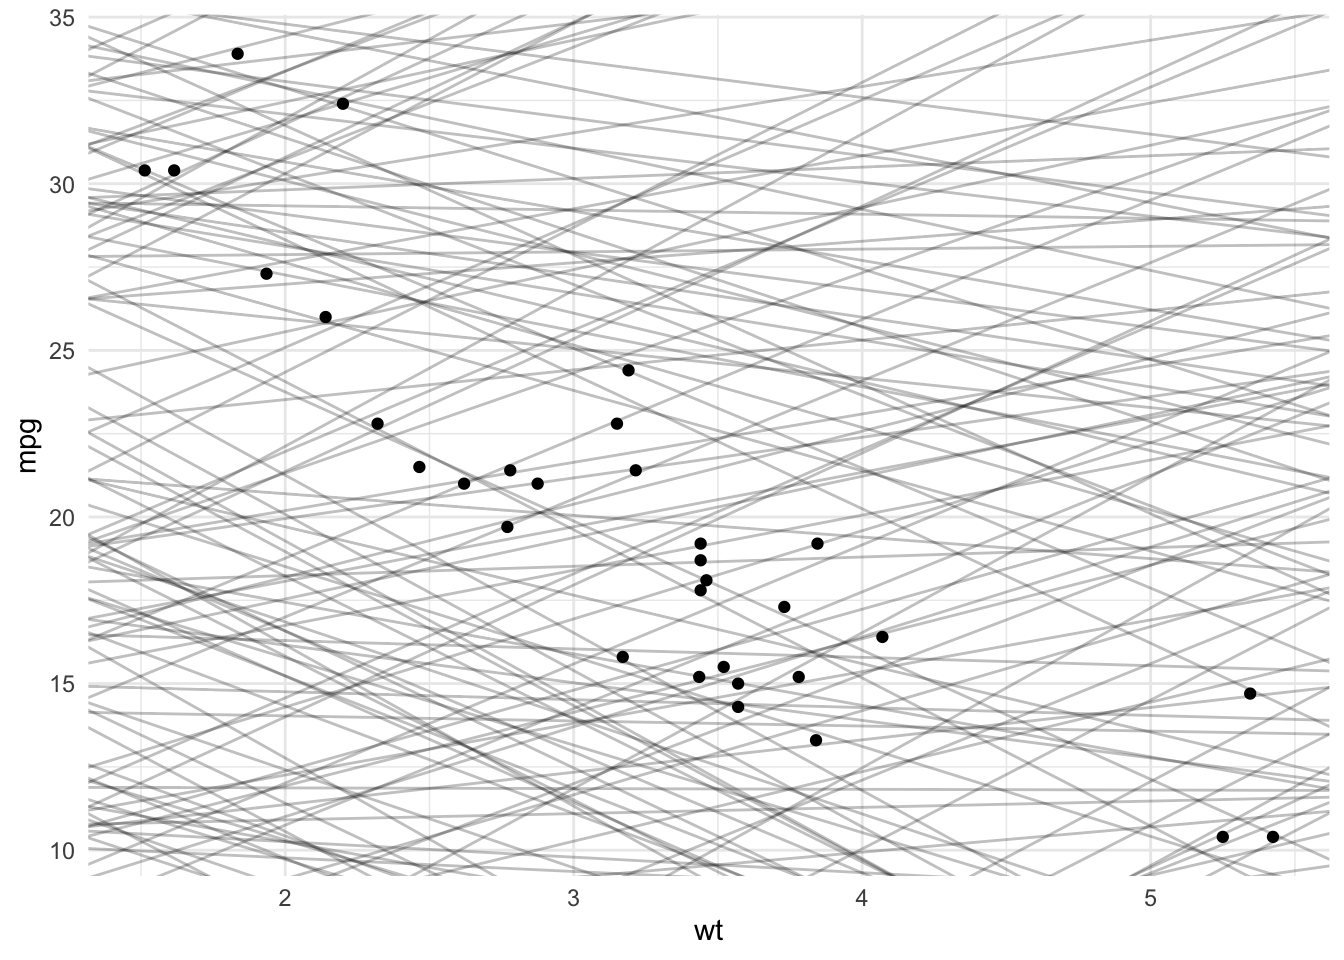
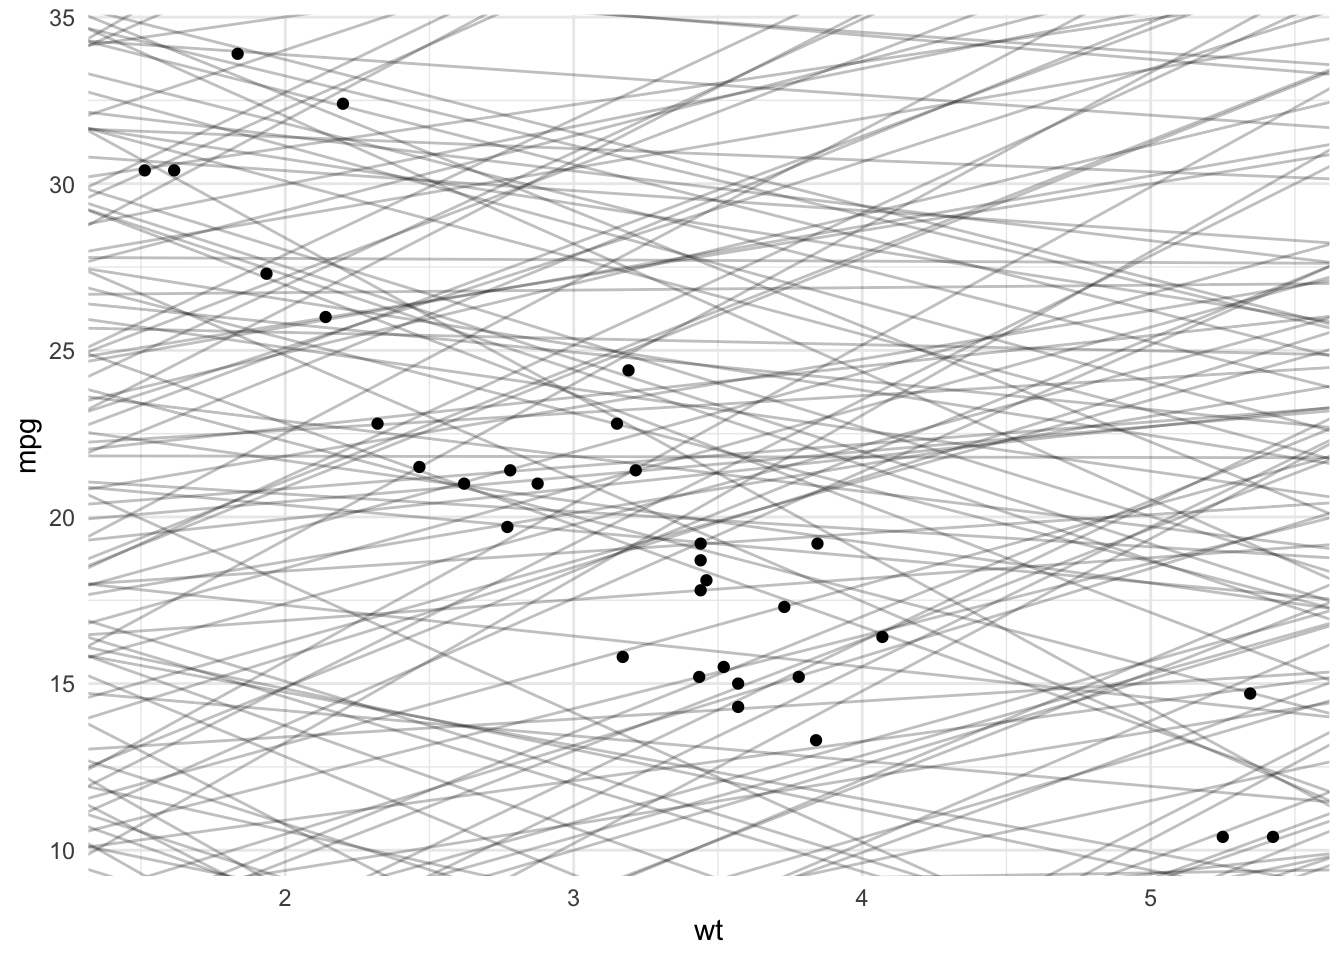
Updated book welcome page

diff --git a/docs/09_02_dates.html b/docs/09_02_dates.html
@@ -527,14 +527,14 @@ pre > code.sourceCode > span > a:first-child::before { text-decoration: underlin
 <div class="cell">
 <div class="sourceCode cell-code" id="cb2"><pre class="sourceCode r code-with-copy"><code class="sourceCode r"><span id="cb2-1"><a href="#cb2-1" aria-hidden="true" tabindex="-1"></a><span class="fu">today</span>()</span></code><button title="Copy to Clipboard" class="code-copy-button"><i class="bi"></i></button></pre></div>
 <div class="cell-output cell-output-stdout">
-<pre><code>[1] "2026-08-30"</code></pre>
+<pre><code>[1] "2026-09-05"</code></pre>
 </div>
 </div>
 <p>Or current date time…</p>
 <div class="cell">
 <div class="sourceCode cell-code" id="cb4"><pre class="sourceCode r code-with-copy"><code class="sourceCode r"><span id="cb4-1"><a href="#cb4-1" aria-hidden="true" tabindex="-1"></a><span class="fu">now</span>()</span></code><button title="Copy to Clipboard" class="code-copy-button"><i class="bi"></i></button></pre></div>
 <div class="cell-output cell-output-stdout">
-<pre><code>[1] "2026-08-30 14:25:07 CEST"</code></pre>
+<pre><code>[1] "2026-09-05 17:46:32 CEST"</code></pre>
 </div>
 </div>
 <section id="parsing-dates" class="level2">
@@ -619,11 +619,11 @@ pre > code.sourceCode > span > a:first-child::before { text-decoration: underlin
 <div class="cell">
 <div class="sourceCode cell-code" id="cb22"><pre class="sourceCode r code-with-copy"><code class="sourceCode r"><span id="cb22-1"><a href="#cb22-1" aria-hidden="true" tabindex="-1"></a><span class="fu">as_datetime</span>(<span class="fu">today</span>())</span></code><button title="Copy to Clipboard" class="code-copy-button"><i class="bi"></i></button></pre></div>
 <div class="cell-output cell-output-stdout">
-<pre><code>[1] "2026-08-30 UTC"</code></pre>
+<pre><code>[1] "2026-09-05 UTC"</code></pre>
 </div>
 <div class="sourceCode cell-code" id="cb24"><pre class="sourceCode r code-with-copy"><code class="sourceCode r"><span id="cb24-1"><a href="#cb24-1" aria-hidden="true" tabindex="-1"></a><span class="fu">as_date</span>(<span class="fu">now</span>())</span></code><button title="Copy to Clipboard" class="code-copy-button"><i class="bi"></i></button></pre></div>
 <div class="cell-output cell-output-stdout">
-<pre><code>[1] "2026-08-30"</code></pre>
+<pre><code>[1] "2026-09-05"</code></pre>
 </div>
 </div>
 </section>
@@ -725,7 +725,7 @@ pre > code.sourceCode > span > a:first-child::before { text-decoration: underlin
 <div class="sourceCode cell-code" id="cb54"><pre class="sourceCode r code-with-copy"><code class="sourceCode r"><span id="cb54-1"><a href="#cb54-1" aria-hidden="true" tabindex="-1"></a>my_age <span class="ot">&lt;-</span> <span class="fu">today</span>() <span class="sc">-</span> <span class="fu">ymd</span>(<span class="st">"1998 Mar 4"</span>)</span>
 <span id="cb54-2"><a href="#cb54-2" aria-hidden="true" tabindex="-1"></a>my_age</span></code><button title="Copy to Clipboard" class="code-copy-button"><i class="bi"></i></button></pre></div>
 <div class="cell-output cell-output-stdout">
-<pre><code>Time difference of 10406 days</code></pre>
+<pre><code>Time difference of 10412 days</code></pre>
 </div>
 <div class="sourceCode cell-code" id="cb56"><pre class="sourceCode r code-with-copy"><code class="sourceCode r"><span id="cb56-1"><a href="#cb56-1" aria-hidden="true" tabindex="-1"></a><span class="fu">class</span>(my_age)</span></code><button title="Copy to Clipboard" class="code-copy-button"><i class="bi"></i></button></pre></div>
 <div class="cell-output cell-output-stdout">
@@ -737,7 +737,7 @@ pre > code.sourceCode > span > a:first-child::before { text-decoration: underlin
 <div class="cell">
 <div class="sourceCode cell-code" id="cb58"><pre class="sourceCode r code-with-copy"><code class="sourceCode r"><span id="cb58-1"><a href="#cb58-1" aria-hidden="true" tabindex="-1"></a><span class="fu">as.duration</span>(my_age)</span></code><button title="Copy to Clipboard" class="code-copy-button"><i class="bi"></i></button></pre></div>
 <div class="cell-output cell-output-stdout">
-<pre><code>[1] "899078400s (~28.49 years)"</code></pre>
+<pre><code>[1] "899596800s (~28.51 years)"</code></pre>
 </div>
 </div>
 <p>Other useful functions… in seconds</p>

diff --git a/docs/index.html b/docs/index.html
@@ -474,18 +474,53 @@ ul.task-list li input[type="checkbox"] {
 <p>This is the book website for the <strong>Data Analysis &amp; Information Extraction</strong> course at <strong>CUNEF Universidad</strong>.</p>
 <p>The book covers all course contents and provides full explanation of the different topics. You will find explanations and examples to guide your learning.</p>
 <p>The book is structured following the course schedule. Now we explain the content of each chapter with references to each of the main units the course is structured.</p>
-<ol type="1">
-<li><p><strong>Introduction to Programming</strong> chapter covers the configuration and introduces R and RStudio software we will use for developing with R during the course. It introduces the different parts of the software and how to use it. (Unit 1)</p></li>
-<li><p><strong>Programming with R</strong> focuses on explaining all basic concepts of the R language, teaching the different data types, main functions and programming structures. To provide the student with the basic knowledge needed for following the next chapters. (Unit 1)</p></li>
-<li><p><strong>Visualization</strong> will teach you the different tools available on R for creating plots and use them accordingly for showing the insights of the data. (Unit 2)</p></li>
-<li><p><strong>Manipulation</strong> chapter will review the different available elements to manipulate the data and transform the information to analyze what we need. (Unit 2)</p></li>
-<li><p><strong>Exploratory Data Analysis</strong> will summarise all we have seen until this point and provide you a template guide on how to explore data and find useful insights. (Unit 2)</p></li>
-<li><p><strong>Reading</strong></p></li>
-<li><p><strong>Arrange</strong></p></li>
-<li><p><strong>Transformation</strong></p></li>
-<li><p><strong>Modelling</strong></p></li>
-<li><p><strong>Communication</strong></p></li>
-</ol>
+<table class="caption-top table">
+<colgroup>
+<col style="width: 18%">
+<col style="width: 16%">
+<col style="width: 64%">
+</colgroup>
+<thead>
+<tr class="header">
+<th>Unit</th>
+<th>Chapters</th>
+<th>Summary</th>
+</tr>
+</thead>
+<tbody>
+<tr class="odd">
+<td><strong>Unit 1</strong>: Programming with R</td>
+<td><p>01 - Introduction to Programming</p>
+<p>02 - Programming with R</p></td>
+<td><p>Configuration and introduction R and RStudio software that we will use for developing with R during the course.</p>
+<p>Explaining all basic concepts of the R language, teaching the different data types, main functions and programming structures.</p></td>
+</tr>
+<tr class="even">
+<td><strong>Unit 2</strong>: Exploratory Data Analysis</td>
+<td><p>03 - Tidyverse</p>
+<p>04 - Visualization</p>
+<p>05 - Transform Data</p>
+<p>06 - Exploratory Data Analysis</p></td>
+<td><p>Introduction to the Tidyverse package for data analysis.</p>
+<p>Explaining the main tools for creating plots and rules to decide how to represent data.</p>
+<p>Basic transformation tools for manipulate data and work with it.</p>
+<p>Know the steps for properly analyze data and understand the information.</p></td>
+</tr>
+<tr class="odd">
+<td><strong>Unit 3</strong>: Data Wrangling</td>
+<td><p>07 - Reading Data</p>
+<p>08 - Arrange Data</p>
+<p>09 - Clean Data</p></td>
+<td><p>Know the main tools for importing data in R.</p>
+<p>Understand how to perform advance transformation to clean and use the data properly for the different analysis needs.</p></td>
+</tr>
+<tr class="even">
+<td><strong>Unit 4</strong>: Modelling</td>
+<td>10 - Modelling</td>
+<td>Understand the basic concepts of data modelling to make predictions. Focus on Linear Regression models. Now how to obtain estimations.</td>
+</tr>
+</tbody>
+</table>
 
 
 </section>

diff --git a/docs/07_05_others.html b/docs/07_05_others.html
@@ -646,22 +646,22 @@ Body: In memory (126715 bytes)</code></pre>
 <div class="sourceCode cell-code" id="cb11"><pre class="sourceCode r code-with-copy"><code class="sourceCode r"><span id="cb11-1"><a href="#cb11-1" aria-hidden="true" tabindex="-1"></a><span class="fu">resp_headers</span>(resp)</span></code><button title="Copy to Clipboard" class="code-copy-button"><i class="bi"></i></button></pre></div>
 <div class="cell-output cell-output-stdout">
 <pre><code>&lt;httr2_headers&gt;
-Date: Sun, 30 Aug 2026 12:24:58 GMT
+Date: Sat, 05 Sep 2026 15:46:23 GMT
 Server: Apache
-Last-Modified: Sun, 30 Aug 2026 07:49:22 GMT
+Last-Modified: Sat, 05 Sep 2026 15:44:38 GMT
 X-OneAgent-JS-Injection: true
-Server-Timing: dtRpid;desc="-1893362553"
+Server-Timing: dtRpid;desc="-310422654"
 Access-Control-Allow-Origin: *
 Access-Control-Allow-Headers: Content-Type
 X-Frame-options: DENY
 Cache-Control: public
 Expires: Thu, 1 Jan 1970 00:00:00 GMT
-ETag: "1788076163:dtagent103432607151238112TlV"
+ETag: "1788623079:dtagent103432607151238112TlV"
 Content-Language: es
-Age: 16538
+Age: 107
 Content-Length: 126715
 Content-Type: application/json;charset=UTF-8
-Set-Cookie: dtCookiec132n50s=v_4_srv_7_sn_F3E7175B52E0E84810F767DEA3503753_perc_100000_ol_0_mul_1_app-3A50b3efb0f7e34fcb_0; Path=/; Domain=.ine.es
+Set-Cookie: dtCookiec132n50s=v_4_srv_8_sn_0AA6A7D92B5A6225D6955D0095AEDEC1_perc_100000_ol_0_mul_1_app-3A50b3efb0f7e34fcb_0; Path=/; Domain=.ine.es
 Set-Cookie: INE_WEB_COOKIE=es;Max-Age=31536000;Path=/
 Set-Cookie: BIGipServerwstempus.ine.es_pool=2528197386.20480.0000; path=/; Httponly; Secure
 Pragma: public</code></pre>

diff --git a/docs/02_02_objects.html b/docs/02_02_objects.html
@@ -1000,7 +1000,7 @@ Warning messages
  [1]  1  2  3  4  5  6  7  8  9 10
 
 [[3]]
-[1] "2026-08-30 14:24:20 CEST"</code></pre>
+[1] "2026-09-05 17:45:45 CEST"</code></pre>
 </div>
 </div>
 <p>In contrast with vectors, lists are considered a data type (object):</p>
@@ -1056,7 +1056,7 @@ $numbers
  [1]  1  2  3  4  5  6  7  8  9 10
 
 $time
-[1] "2026-08-30 14:24:20 CEST"</code></pre>
+[1] "2026-09-05 17:45:45 CEST"</code></pre>
 </div>
 </div>
 <p>These names can be used for accessing each element too:</p>
@@ -1158,7 +1158,7 @@ $time
 <div class="sourceCode cell-code" id="cb108"><pre class="sourceCode r code-with-copy"><code class="sourceCode r"><span id="cb108-1"><a href="#cb108-1" aria-hidden="true" tabindex="-1"></a>hour <span class="ot">&lt;-</span> <span class="fu">Sys.time</span>()</span>
 <span id="cb108-2"><a href="#cb108-2" aria-hidden="true" tabindex="-1"></a>hour</span></code><button title="Copy to Clipboard" class="code-copy-button"><i class="bi"></i></button></pre></div>
 <div class="cell-output cell-output-stdout">
-<pre><code>[1] "2026-08-30 14:24:20 CEST"</code></pre>
+<pre><code>[1] "2026-09-05 17:45:45 CEST"</code></pre>
 </div>
 <div class="sourceCode cell-code" id="cb110"><pre class="sourceCode r code-with-copy"><code class="sourceCode r"><span id="cb110-1"><a href="#cb110-1" aria-hidden="true" tabindex="-1"></a><span class="fu">typeof</span>(hour)</span></code><button title="Copy to Clipboard" class="code-copy-button"><i class="bi"></i></button></pre></div>
 <div class="cell-output cell-output-stdout">

diff --git a/docs/07_03_parsing.html b/docs/07_03_parsing.html
@@ -702,7 +702,7 @@ row col           expected     actual
 <div>
 
 </div>
-<div class="quarto-layout-panel" data-layout-ncol="3" style="font-size:20px;">
+<div class="quarto-layout-panel" style="font-size:20px;" data-layout-ncol="3">
 <div class="quarto-layout-row">
 <section id="year" class="level4 quarto-layout-cell" style="flex-basis: 33.3%;justify-content: flex-start;">
 <h4 class="anchored" data-anchor-id="year">Year</h4>
@@ -739,7 +739,7 @@ row col           expected     actual
 <div>
 
 </div>
-<div class="quarto-layout-panel" data-layout-ncol="2" style="font-size:20px;">
+<div class="quarto-layout-panel" style="font-size:20px;" data-layout-ncol="2">
 <div class="quarto-layout-row">
 <section id="time" class="level4 quarto-layout-cell" style="flex-basis: 50.0%;justify-content: flex-start;">
 <h4 class="anchored" data-anchor-id="time">Time</h4>

diff --git a/docs/02_01_first_concepts.html b/docs/02_01_first_concepts.html
@@ -617,7 +617,7 @@ Naming Variables
 <div class="sourceCode cell-code" id="cb21"><pre class="sourceCode numberSource r number-lines code-with-copy"><code class="sourceCode r"><span id="cb21-1"><a href="#cb21-1"></a><span class="co"># we don't need to use the name if we follow the same order</span></span>
 <span id="cb21-2"><a href="#cb21-2"></a><span class="fu">sample</span>(<span class="dv">1</span><span class="sc">:</span><span class="dv">10</span>, <span class="dv">1</span>)</span></code><button title="Copy to Clipboard" class="code-copy-button"><i class="bi"></i></button></pre></div>
 <div class="cell-output cell-output-stdout">
-<pre><code>[1] 10</code></pre>
+<pre><code>[1] 8</code></pre>
 </div>
 </div>
 <p>You can see the arguments of a function using <code>args()</code> function.</p>
